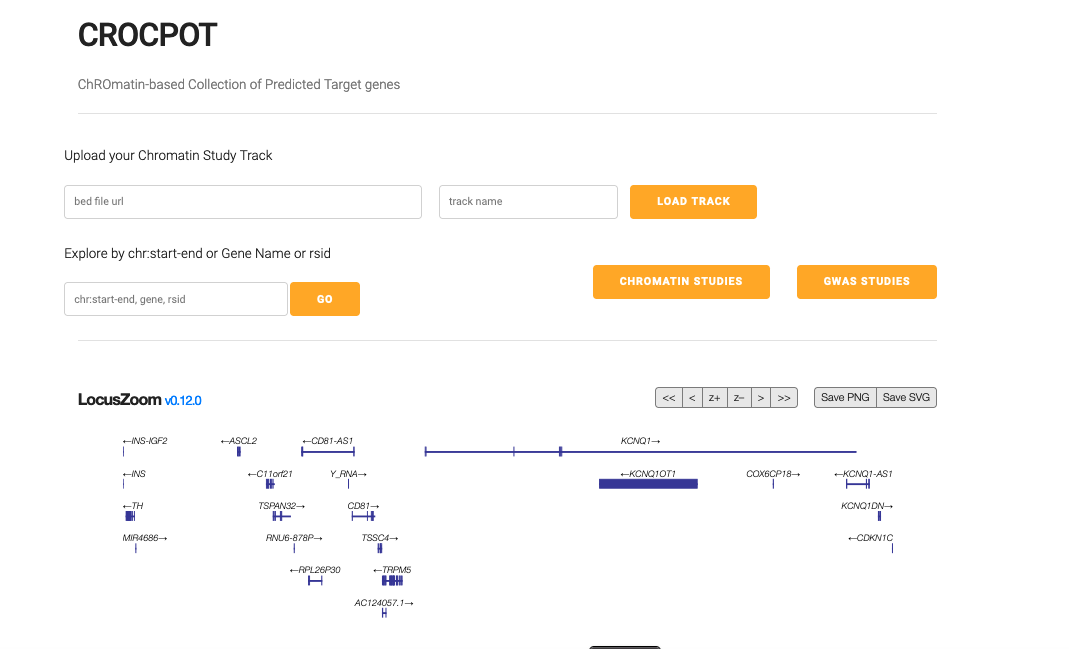
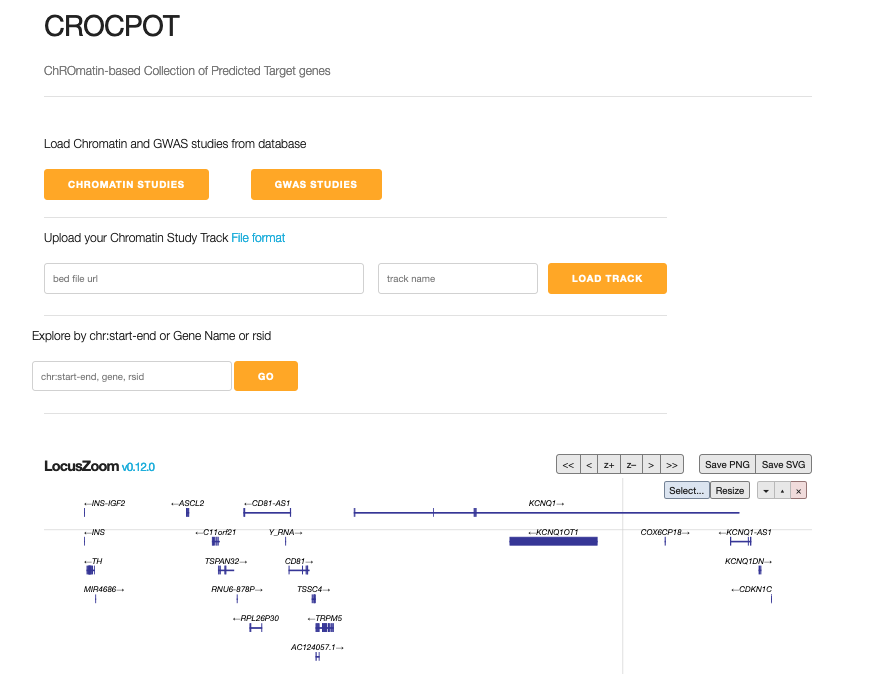
updated doc

diff --git a/site/data-method/index.html b/site/data-method/index.html
@@ -8,7 +8,7 @@
   
   
   <link rel="shortcut icon" href="../img/favicon.ico">
-  <title>Upload BED & Tabix to local server - CROCPOT</title>
+  <title>Data and Methods - CROCPOT</title>
   <link href='https://fonts.googleapis.com/css?family=Lato:400,700|Roboto+Slab:400,700|Inconsolata:400,700' rel='stylesheet' type='text/css'>
 
   <link rel="stylesheet" href="../css/theme.css" type="text/css" />
@@ -17,8 +17,8 @@
   
   <script>
     // Current page data
-    var mkdocs_page_name = "Upload BED & Tabix to local server";
-    var mkdocs_page_input_path = "local-server.md";
+    var mkdocs_page_name = "Data and Methods";
+    var mkdocs_page_input_path = "data-method.md";
     var mkdocs_page_url = null;
   </script>
   
@@ -70,19 +70,19 @@
                     
     <a class="" href="../s3/">Upload BED & Tabix to AWS S3</a>
                 </li>
-                <li class=" current">
+                <li class="">
                     
-    <a class="current" href="./">Upload BED & Tabix to local server</a>
-    <ul class="subnav">
-            
-    </ul>
+    <a class="" href="../local-server/">Upload BED & Tabix to local server</a>
                 </li>
     </ul>
 	    </li>
           
-            <li class="toctree-l1">
+            <li class="toctree-l1 current">
 		
-    <a class="" href="../data-method/">Data and Methods</a>
+    <a class="current" href="./">Data and Methods</a>
+    <ul class="subnav">
+            
+    </ul>
 	    </li>
           
         </ul>
@@ -106,12 +106,8 @@
     <li><a href="..">Docs</a> &raquo;</li>
     
       
-        
-          <li>Upload your Chromatin Study Track &raquo;</li>
-        
-      
     
-    <li>Upload BED & Tabix to local server</li>
+    <li>Data and Methods</li>
     <li class="wy-breadcrumbs-aside">
       
     </li>
@@ -121,8 +117,9 @@
           <div role="main">
             <div class="section">
               
-                <p><strong>Upload BED and TABIX files to local  server bucket</strong></p>
-<p>If your local server has apache installed you can load your files via. URL to CROCPOT a) create directory under web root b)copy BED and TABIX file to the directory and ensure the webdirectory and the files are publicly accessible c) <a href="https://enable-cors.org/server_apache.html">Add CORS authorization to the header using Apache</a> </p>
+                <p><a href="http://www.apps.t2depigenome.org/locuszoom-dev/data_chromatin.html"><strong>Chromatin Datasets</strong></a></p>
+<p><a href="http://www.apps.t2depigenome.org/locuszoom-dev/data_gwas.html"><strong>GWAS Datasets</strong></a></p>
+<p><a href="http://www.apps.t2depigenome.org/locuszoom-dev/methods.html"><strong>Pipelines for Chromatin Studies</strong></a> </p>
               
             </div>
           </div>
@@ -130,10 +127,8 @@
   
     <div class="rst-footer-buttons" role="navigation" aria-label="footer navigation">
       
-        <a href="../data-method/" class="btn btn-neutral float-right" title="Data and Methods">Next <span class="icon icon-circle-arrow-right"></span></a>
       
-      
-        <a href="../s3/" class="btn btn-neutral" title="Upload BED & Tabix to AWS S3"><span class="icon icon-circle-arrow-left"></span> Previous</a>
+        <a href="../local-server/" class="btn btn-neutral" title="Upload BED & Tabix to local server"><span class="icon icon-circle-arrow-left"></span> Previous</a>
       
     </div>
   
@@ -159,10 +154,8 @@
     <span class="rst-current-version" data-toggle="rst-current-version">
       
       
-        <span><a href="../s3/" style="color: #fcfcfc;">&laquo; Previous</a></span>
+        <span><a href="../local-server/" style="color: #fcfcfc;">&laquo; Previous</a></span>
       
-      
-        <span style="margin-left: 15px"><a href="../data-method/" style="color: #fcfcfc">Next &raquo;</a></span>
       
     </span>
 </div>

diff --git a/site/index.html b/site/index.html
@@ -83,6 +83,11 @@
     </ul>
 	    </li>
           
+            <li class="toctree-l1">
+		
+    <a class="" href="data-method/">Data and Methods</a>
+	    </li>
+          
         </ul>
       </div>
       &nbsp;
@@ -166,5 +171,5 @@
 
 <!--
 MkDocs version : 1.0.4
-Build Date UTC : 2020-08-31 22:33:47
+Build Date UTC : 2020-10-06 05:16:16
 -->

diff --git a/site/quickstart/index.html b/site/quickstart/index.html
@@ -83,6 +83,11 @@
     </ul>
 	    </li>
           
+            <li class="toctree-l1">
+		
+    <a class="" href="../data-method/">Data and Methods</a>
+	    </li>
+          
         </ul>
       </div>
       &nbsp;

diff --git a/site/s3/index.html b/site/s3/index.html
@@ -80,6 +80,11 @@
     </ul>
 	    </li>
           
+            <li class="toctree-l1">
+		
+    <a class="" href="../data-method/">Data and Methods</a>
+	    </li>
+          
         </ul>
       </div>
       &nbsp;

diff --git a/site/tabix/index.html b/site/tabix/index.html
@@ -80,6 +80,11 @@
     </ul>
 	    </li>
           
+            <li class="toctree-l1">
+		
+    <a class="" href="../data-method/">Data and Methods</a>
+	    </li>
+          
         </ul>
       </div>
       &nbsp;

diff --git a/site/search.html b/site/search.html
@@ -70,6 +70,11 @@
     </ul>
 	    </li>
           
+            <li class="toctree-l1">
+		
+    <a class="" href="./data-method/">Data and Methods</a>
+	    </li>
+          
         </ul>
       </div>
       &nbsp;

diff --git a/site/404.html b/site/404.html
@@ -70,6 +70,11 @@
     </ul>
 	    </li>
           
+            <li class="toctree-l1">
+		
+    <a class="" href="/data-method/">Data and Methods</a>
+	    </li>
+          
         </ul>
       </div>
       &nbsp;

diff --git a/docs/data-method.md b/docs/data-method.md
@@ -1,0 +1,5 @@
+[**Chromatin Datasets**](http://www.apps.t2depigenome.org/locuszoom-dev/data_chromatin.html)
+
+[**GWAS Datasets**](http://www.apps.t2depigenome.org/locuszoom-dev/data_gwas.html)
+
+[**Pipelines for Chromatin Studies**](http://www.apps.t2depigenome.org/locuszoom-dev/methods.html) 
